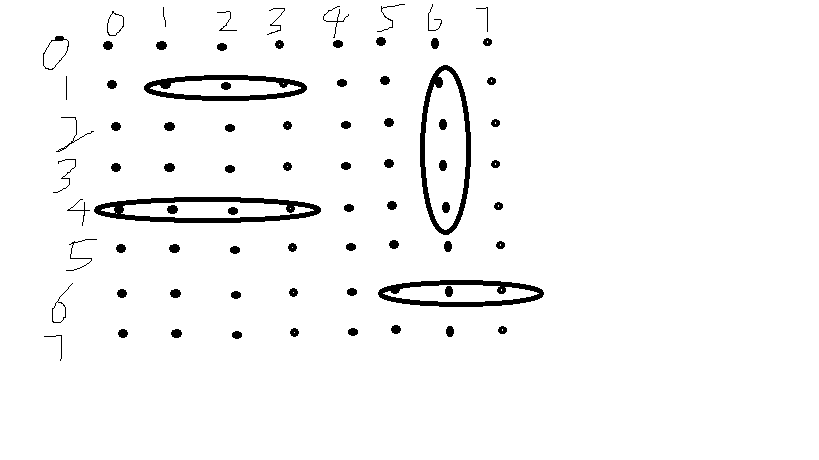
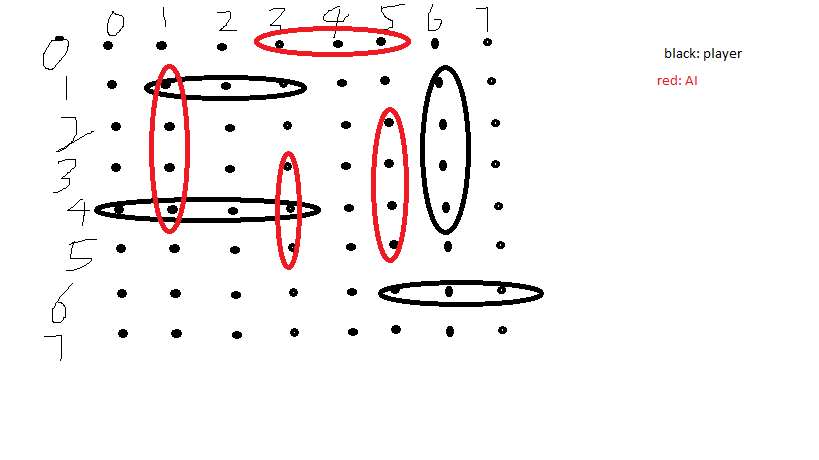
change by Richard

diff --git a/grid.hpp b/grid.hpp
@@ -16,31 +16,124 @@ void print_grid(int grid[8][8])
 }
 
 
+char int_to_char(int num)
+{
+	if (num == 1)
+	{
+		return 'C';
+	}
+	else if (num == 2)
+	{
+		return 'B';
+	}
+	else if (num == 3)
+	{
+		return 'c';
+	}
+	else if (num == 4)
+	{
+		return 'S';
+	}
+	else 
+	{
+		return ' ';
+	}
+}
+
+
+void print_game(int grid[8][8])
+{
+	for (int i = 0; i < 8; i++)
+	{
+		for (int j = 0; j < 8; j++)
+		{
+			std::cout << "+---";
+		}
+		
+		std::cout << "+          |          ";
+		
+		for (int j = 0; j < 8; j++)
+		{
+			std::cout << "+---";
+		}
+		
+		std::cout << "+\n";
+		
+		for (int j = 0; j < 8; j++)
+		{
+			std::cout << "| " << int_to_char(grid[i][j]) << " ";
+		}
+		
+		std::cout << "|          |          ";
+		
+		for (int j = 0; j < 8; j++)
+		{
+			std::cout << "|   ";
+		}
+		
+		std::cout << "|\n";
+	}
+	
+	for (int j = 0; j < 8; j++)
+		{
+			std::cout << "+---";
+		}
+		
+		std::cout << "+          |          ";
+		
+		for (int j = 0; j < 8; j++)
+		{
+			std::cout << "+---";
+		}
+		
+		std::cout << "+\n";
+}
+
+
 // the function contains the test grid for the player
 void player_grid(int grid[8][8])
 {
-	grid[1][6] = 1;
-	grid[2][6] = 1;
-	grid[3][6] = 1;
-	grid[3][6] = 1;
+	grid[1][6] = 2;
+	grid[2][6] = 2;
+	grid[3][6] = 2;
+	grid[4][6] = 2;
 	
-	grid[1][1] = 1;
-	grid[1][2] = 1;
-	grid[1][3] = 1;
+	grid[1][1] = 3;
+	grid[1][2] = 3;
+	grid[1][3] = 3;
 	
 	grid[4][0] = 1;
 	grid[4][1] = 1;
 	grid[4][2] = 1;
 	grid[4][3] = 1;
 	
-	grid[6][5] = 1;
-	grid[6][6] = 1;
-	grid[6][7] = 1;
+	grid[6][5] = 4;
+	grid[6][6] = 4;
+	grid[6][7] = 4;
 }
 
 
 // the function contains the test grid for the AI
-void player_grid(int grid[8][8])
+void ai_grid(int grid[8][8])
+{
+	grid[0][3] = 4;
+	grid[0][4] = 4;
+	grid[0][5] = 4;
+	
+	grid[1][1] = 1;
+	grid[2][1] = 1;
+	grid[3][1] = 1;
+	grid[4][1] = 1;
+	
+	grid[3][3] = 3;
+	grid[4][3] = 3;
+	grid[5][3] = 3;
+	
+	grid[2][5] = 2;
+	grid[3][5] = 2;
+	grid[4][5] = 2;
+	grid[5][5] = 2;
+}
 
 
 // the function checks whether the ships are indeed ramdomly generated on the grid

diff --git a/battleship.cpp b/battleship.cpp
@@ -2,22 +2,26 @@
 #include <iostream>
 #include "grid.hpp"
 
-
 int main()
 {
-	int size_ten_grid[8][8];  // a 8 by 8 matrix for the game board
+	int player[8][8];  // a 8 by 8 matrix for the game board for player
+	int ai[8][8];  // the grid for AI
 
 	for (int i = 0; i < 8; i++)  // initialize the values for the grid to be 0
 	{
 		for (int j = 0; j < 8; j++)
 		{
-			size_ten_grid[i][j] = 0;
+			player[i][j] = 0;
+			ai[i][j] = 0;
 		}
 	}
 	
-	std::cout << "Do you want to fight against a normal AI or a difficult AI?" << std::endl;  // asking the user for normal or difficult difficulty
+	// std::cout << "Do you want to fight against a normal AI or a difficult AI?" << std::endl;  // asking the user for normal or difficult difficulty
 	
-	print_grid(size_ten_grid);
+	player_grid(player);
+	ai_grid(ai);
+	
+	print_game(player);
 
 	return 0;
 }

diff --git a/randomize_algorithm.hpp b/randomize_algorithm.hpp
@@ -1,2 +1,1 @@
 // this section will be able to randomize the ships location on a 8 x 8 grid.
-
